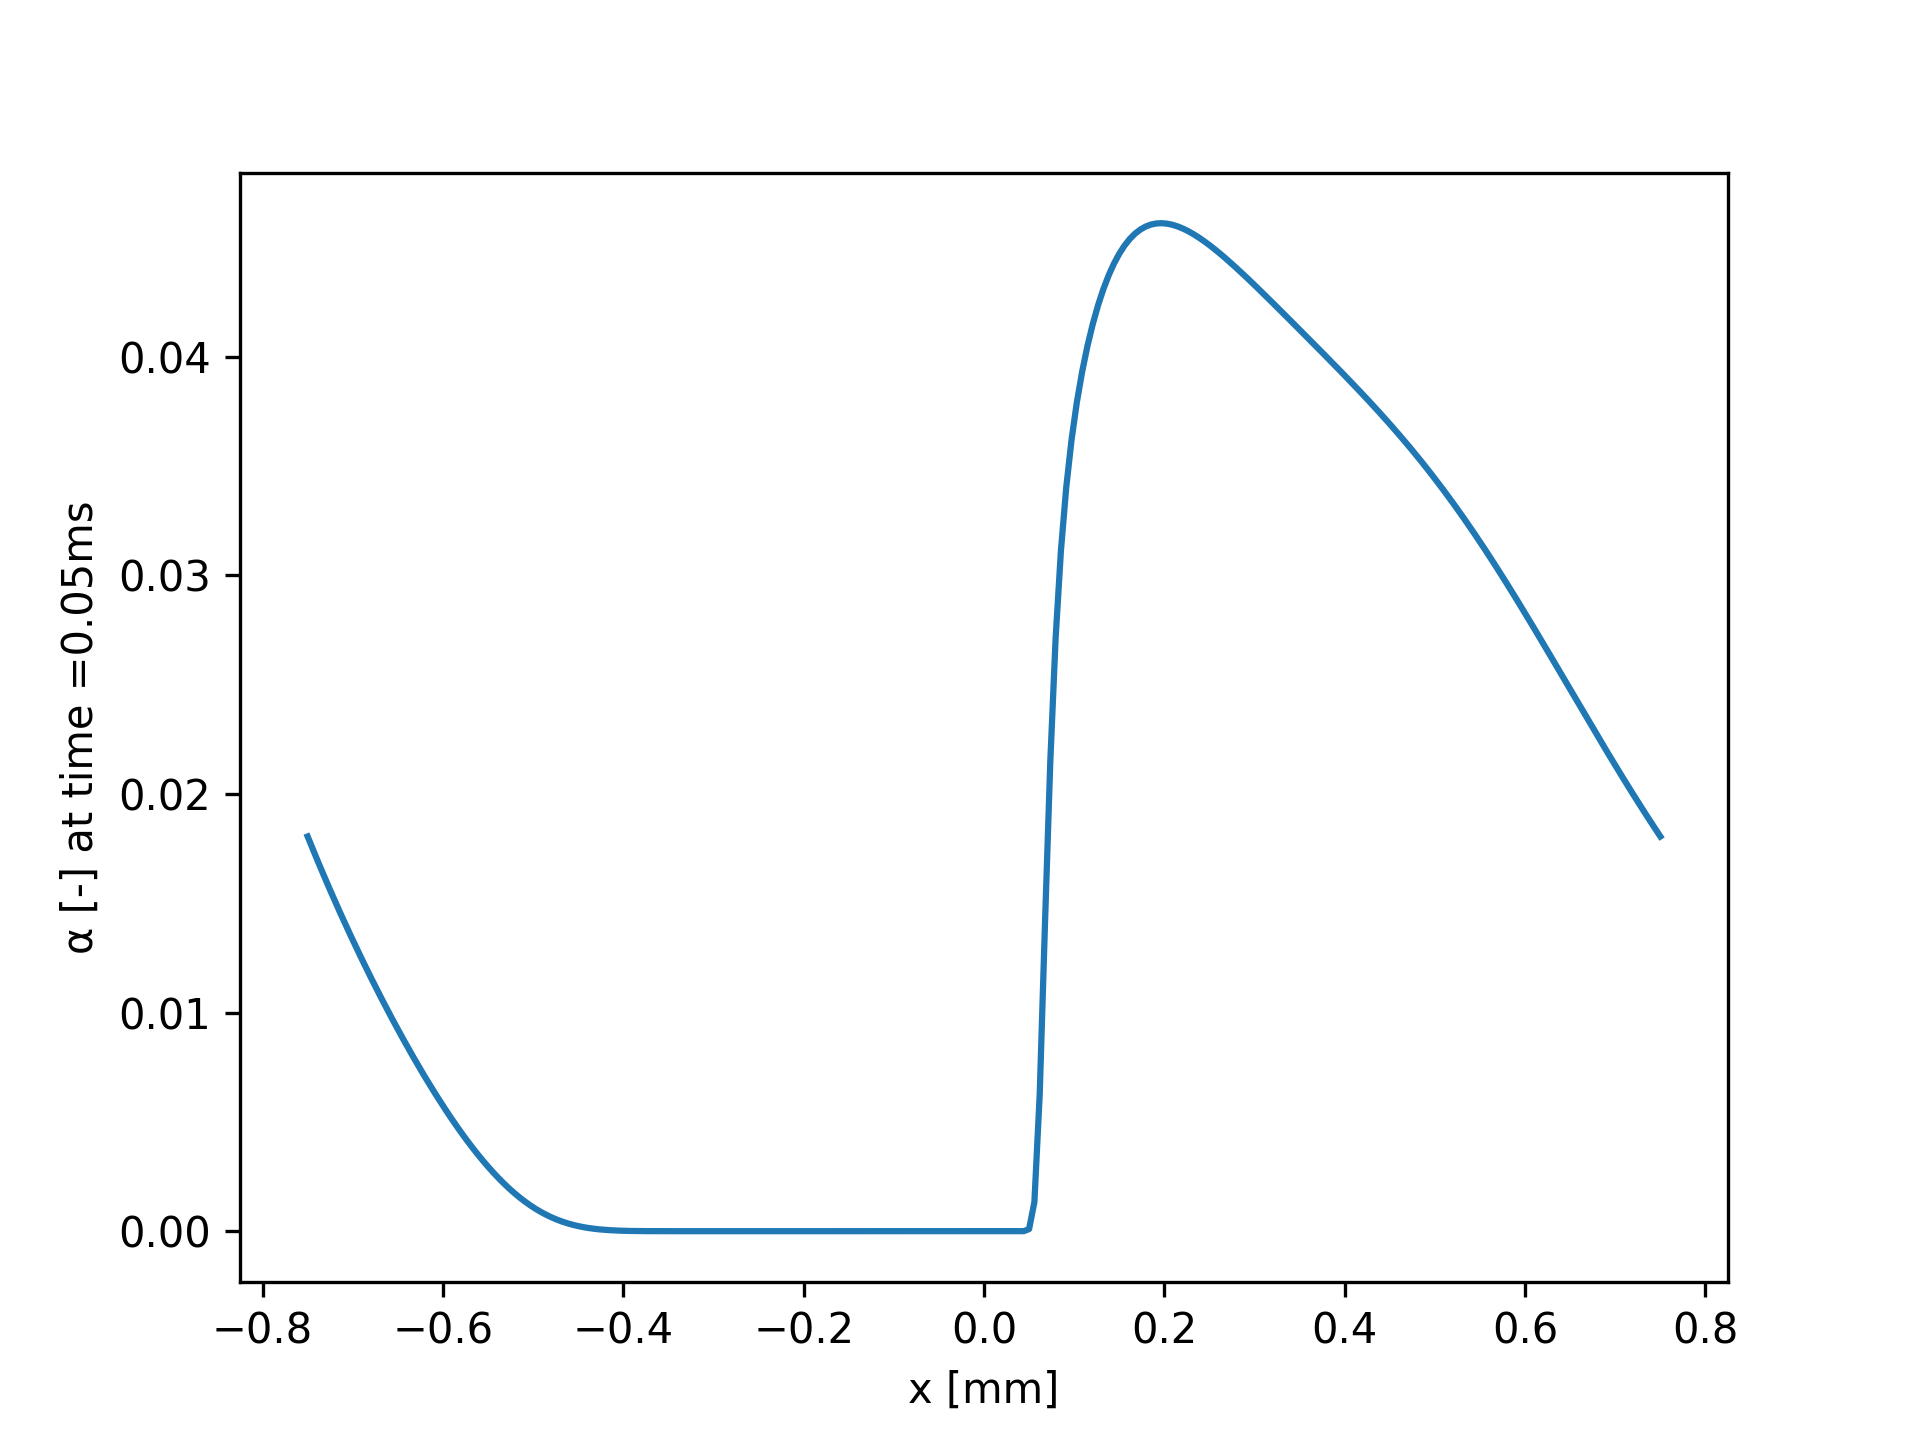
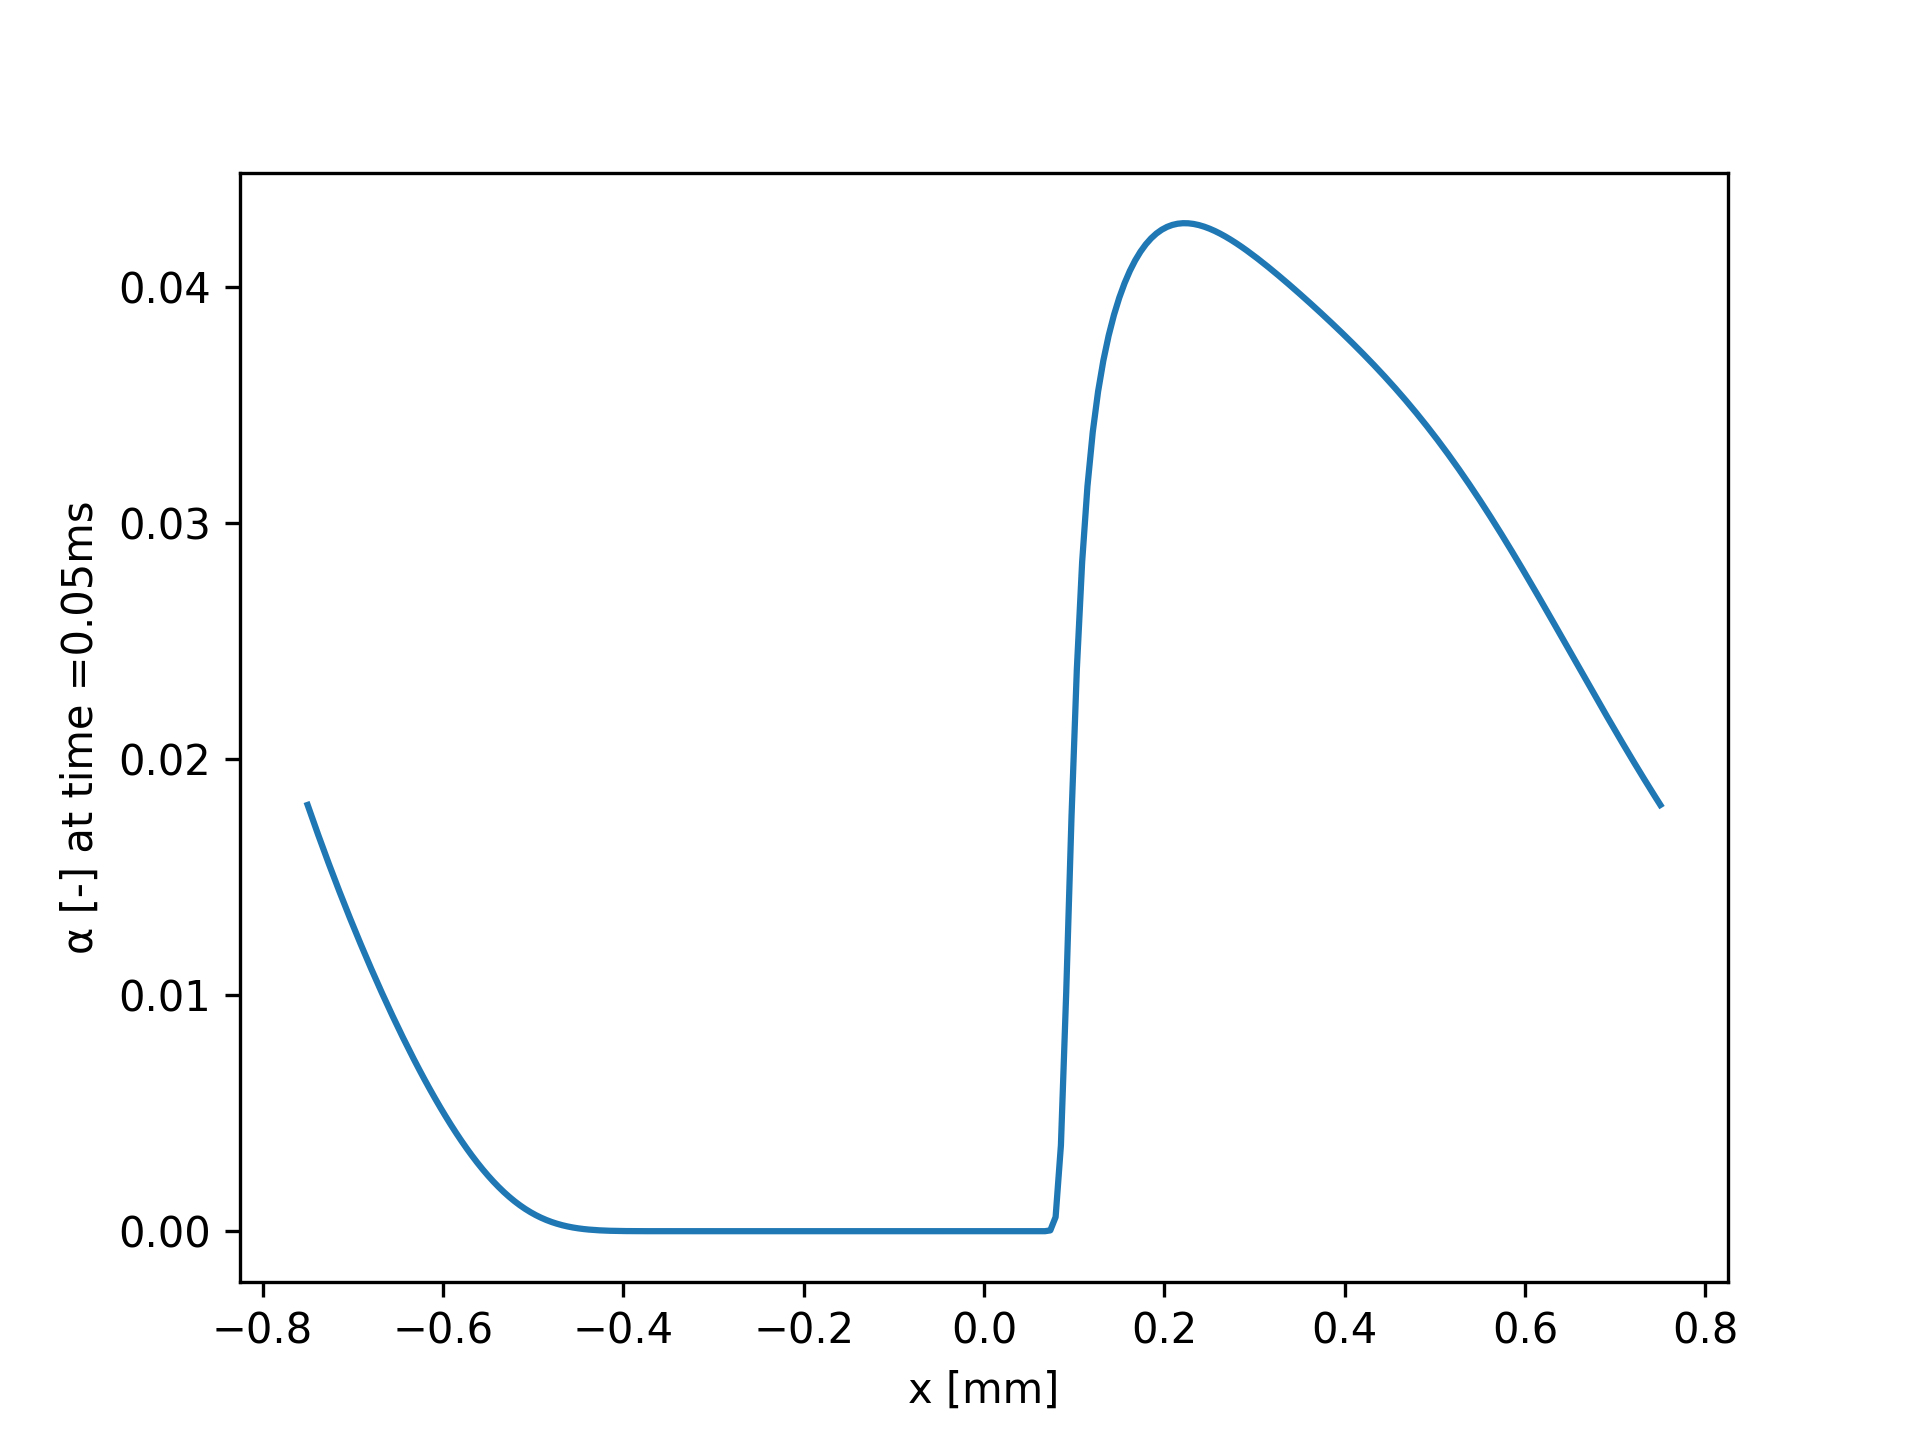
new figures normal ring

diff --git a/PostProcessing.py b/PostProcessing.py
@@ -81,8 +81,8 @@ Discretization=FiniteDifferences(Grid)
 
 """Read Data"""
 time=0
-for time in [1,2,3,4]:#range(1,Time.nt): # [100]:# 
-    FileName='Data_worn/Time_'+str(round(Time.t[time]*1000,4))+'ms.h5' 
+for time in range(1,Time.nt): # [100]:# 
+    FileName='Data_v3/Time_'+str(round(Time.t[time]*1000,4))+'ms.h5' 
 
     Data=IO.ReadData(FileName)
     StateVector[time].h0=float(Data['State']['h0']) # ok
@@ -205,14 +205,14 @@ plt.close()
 # plt.close()
 
 # ## Multi color Stribeck
-# for i in range(len(COF_values)):
-#     plt.plot(Hersey_values[i]*10**4,COF_values[i],'o',color=(.47,gradient[i],gradient[i]),markersize=3)
-# plt.xlabel('Hersey number x$ 10^4$ [-]')
-# plt.ylabel('Coefficient of Friction [-]')
-# # plt.xscale('log')
-# plt.savefig('PostProcessing/Stribeck_curve.png',dpi=300)
-# plt.show()
-# plt.close()
+for i in range(len(COF_values)):
+    plt.plot(Hersey_values[i]*10**4,COF_values[i],'o',color=(.47,gradient[i],gradient[i]),markersize=3)
+plt.xlabel('Hersey number x$ 10^4$ [-]')
+plt.ylabel('Coefficient of Friction [-]')
+# plt.xscale('log')
+plt.savefig('PostProcessing/Stribeck_curve.png',dpi=300)
+plt.show()
+plt.close()
 
 
 
@@ -227,43 +227,43 @@ plt.close()
 
 # ## Characteristic pressure & temperature fields at interesting and relevant locations
 
-# for time in interesting_timestamps:
+for time in interesting_timestamps:
     
-#     vis.Report_PT(Grid, StateVector[time], time=time) # plt.show() has to be uncommented in VisualLib --> kan ook gwn hier
-#     figname="PostProcessing/PT@Time_"+"{0:.2f}".format(round(Time.t[time]*1000,5))+"ms.png" 
-#     plt.savefig(figname,dpi=300)
-#     plt.show()
-#     plt.close()
+    vis.Report_PT(Grid, StateVector[time], time=time) # plt.show() has to be uncommented in VisualLib --> kan ook gwn hier
+    figname="PostProcessing/PT@Time_"+"{0:.2f}".format(round(Time.t[time]*1000,5))+"ms.png" 
+    plt.savefig(figname,dpi=300)
+    plt.show()
+    plt.close()
 
 
 # ### Vapour volume fraction, viscosity, Density at relavant locations
 # # interesting_timestamps = [100]
-# for time in interesting_timestamps:
-#     plt.plot(Grid.x*1000,StateVector[time].VapourVolumeFraction)
-#     plt.ylabel(chr(945) + ' [-]'+' at time =' + str(time*5/100) + 'ms')
-#     plt.xlabel('x [mm]')
-#     figname="PostProcessing/alpha@Time_"+"{0:.2f}".format(round(Time.t[time]*1000,5))+"ms.png" 
-#     plt.savefig(figname,dpi=300)
-#     # plt.show()
-#     plt.close()
+for time in interesting_timestamps:
+    plt.plot(Grid.x*1000,StateVector[time].VapourVolumeFraction)
+    plt.ylabel(chr(945) + ' [-]'+' at time =' + str(time*5/100) + 'ms')
+    plt.xlabel('x [mm]')
+    figname="PostProcessing/alpha@Time_"+"{0:.2f}".format(round(Time.t[time]*1000,5))+"ms.png" 
+    plt.savefig(figname,dpi=300)
+    # plt.show()
+    plt.close()
 
 
-#     plt.plot(Grid.x*1000,StateVector[time].Density)
-#     plt.ylabel('Density [kg/m³]'+' at time =' + str(time*5/100) + 'ms')
-#     plt.xlabel('x [mm]')
-#     figname="PostProcessing/rho@Time_"+"{0:.2f}".format(round(Time.t[time]*1000,5))+"ms.png" 
-#     plt.savefig(figname,dpi=300)
-#     # plt.show()
-#     plt.close()
+    plt.plot(Grid.x*1000,StateVector[time].Density)
+    plt.ylabel('Density [kg/m³]'+' at time =' + str(time*5/100) + 'ms')
+    plt.xlabel('x [mm]')
+    figname="PostProcessing/rho@Time_"+"{0:.2f}".format(round(Time.t[time]*1000,5))+"ms.png" 
+    plt.savefig(figname,dpi=300)
+    # plt.show()
+    plt.close()
 
 
-#     plt.plot(Grid.x*1000,StateVector[time].Viscosity)
-#     plt.ylabel('Viscosity [Pa s]'+' at time =' + str(time*5/100) + 'ms')
-#     plt.xlabel('x [mm]')
-#     figname="PostProcessing/µ@Time_"+"{0:.2f}".format(round(Time.t[time]*1000,5))+"ms.png" 
-#     plt.savefig(figname,dpi=300)
-#     # plt.show()
-#     plt.close()
+    plt.plot(Grid.x*1000,StateVector[time].Viscosity)
+    plt.ylabel('Viscosity [Pa s]'+' at time =' + str(time*5/100) + 'ms')
+    plt.xlabel('x [mm]')
+    figname="PostProcessing/µ@Time_"+"{0:.2f}".format(round(Time.t[time]*1000,5))+"ms.png" 
+    plt.savefig(figname,dpi=300)
+    # plt.show()
+    plt.close()
 
     
 
@@ -277,74 +277,74 @@ plt.close()
 # interesting_timestamps = np.array([1, 500, 999]) #250, 
 
 # interesting_timestamps = [100]
-# for time in interesting_timestamps:
-#     visc_x = StateVector[time].Viscosity
-#     density = Mixture.Density(StateVector[time])
-#     p = StateVector[time].Pressure
-#     p_x = Discretization.DDXCentral @ p
-#     DDX = Discretization.DDXCentral
-#     p_y = 0.0
-#     x_grid = Grid.x
-#     z_n = Grid.Nx
-#     h = StateVector[time].h
+for time in interesting_timestamps:
+    visc_x = StateVector[time].Viscosity
+    density = Mixture.Density(StateVector[time])
+    p = StateVector[time].Pressure
+    p_x = Discretization.DDXCentral @ p
+    DDX = Discretization.DDXCentral
+    p_y = 0.0
+    x_grid = Grid.x
+    z_n = Grid.Nx
+    h = StateVector[time].h
     
-#     u1 = 0
-#     u2 = Ops.SlidingVelocity[time] # or PistonVelocity ? idk
-#     Nx = Grid.Nx
-#     u_x = np.zeros((z_n, Nx))
-#     u_z = np.zeros((z_n, Nx))
+    u1 = 0
+    u2 = Ops.SlidingVelocity[time] # or PistonVelocity ? idk
+    Nx = Grid.Nx
+    u_x = np.zeros((z_n, Nx))
+    u_z = np.zeros((z_n, Nx))
 
-#     z_grid = np.linspace(0.0, h[0], z_n)
-#     for x in range(Grid.Nx):
-#         u_x[:, x] = np.array([1/visc_x[x] * p_x[x] * 1/2 * (z**2 - h[x] * z) if z < h[x] else 0 for z in z_grid])  # Poiseuille
-#         u_x[:, x] += np.array([(u2 - u1) / h[x] * z + u1 if z < h[x] else 0 for z in z_grid])                      # Couette
-#         # Note: list comprehension is used to get zero for points "inside" of the ring in the vector plot
-#         # print(u_x[:,x])
-#         # print(np.array([1/visc_x[x] * p_x[x] * 1/2 * (z**2 - h[x] * z) if z < h[x] else 0 for z in z_grid]))
-#         # u_z[:, x] = np.trapz(1/density[x] * DDX @ (density[x] * u_x[:, x]),z_grid)*10000
+    z_grid = np.linspace(0.0, h[0], z_n)
+    for x in range(Grid.Nx):
+        u_x[:, x] = np.array([1/visc_x[x] * p_x[x] * 1/2 * (z**2 - h[x] * z) if z < h[x] else 0 for z in z_grid])  # Poiseuille
+        u_x[:, x] += np.array([(u2 - u1) / h[x] * z + u1 if z < h[x] else 0 for z in z_grid])                      # Couette
+        # Note: list comprehension is used to get zero for points "inside" of the ring in the vector plot
+        # print(u_x[:,x])
+        # print(np.array([1/visc_x[x] * p_x[x] * 1/2 * (z**2 - h[x] * z) if z < h[x] else 0 for z in z_grid]))
+        # u_z[:, x] = np.trapz(1/density[x] * DDX @ (density[x] * u_x[:, x]),z_grid)*10000
     
-#     # np.average(u_x)
-#     ## Reduce amount of datapoint used to generate vectors. Note: plt.quiver wants the same amount of elements in X and Y!
-#     skip = 10
-#     scale = 1
-#     if time in np.array([1, 500, 999]):
-#         skip = 12
-#         scale = 40
-#     skip1 = (slice(None, None, skip))
-#     skip2 = (slice(None, None, skip), slice(None, None, skip))
+    # np.average(u_x)
+    ## Reduce amount of datapoint used to generate vectors. Note: plt.quiver wants the same amount of elements in X and Y!
+    skip = 10
+    scale = 1
+    if time in np.array([1, 500, 999]):
+        skip = 12
+        scale = 40
+    skip1 = (slice(None, None, skip))
+    skip2 = (slice(None, None, skip), slice(None, None, skip))
 
-#     ## Make grid for vectors
-#     X, Z = np.meshgrid(x_grid[skip1], z_grid[skip1])
+    ## Make grid for vectors
+    X, Z = np.meshgrid(x_grid[skip1], z_grid[skip1])
 
-#     X_l, Z_l = np.meshgrid((x_grid[:Nx//2])[skip1], (z_grid)[skip1])
-#     X_r, Z_r = np.meshgrid((x_grid[Nx//2+1:])[skip1], (z_grid)[skip1])
+    X_l, Z_l = np.meshgrid((x_grid[:Nx//2])[skip1], (z_grid)[skip1])
+    X_r, Z_r = np.meshgrid((x_grid[Nx//2+1:])[skip1], (z_grid)[skip1])
 
 
-#     ## Make vector plot
-#     pts = [[-0.75,0.02]]
-#     for i in range(len(x_grid)):
-#         pts.append([x_grid[i]*1000,StateVector[time].h[i]*1000])
-#     pts.append([0.75,0.02])
-#     p = Polygon(pts,closed=False,ec='black',fc='grey',zorder=.1)
-#     plt.gca().add_patch(p)
+    ## Make vector plot
+    pts = [[-0.75,0.02]]
+    for i in range(len(x_grid)):
+        pts.append([x_grid[i]*1000,StateVector[time].h[i]*1000])
+    pts.append([0.75,0.02])
+    p = Polygon(pts,closed=False,ec='black',fc='grey',zorder=.1)
+    plt.gca().add_patch(p)
 
-#     plt.quiver(X*1000,Z*1000,u_x[skip2]*scale,u_z[skip2],pivot='tail',minlength=0,scale=350) #scale=350 for v!=0
+    plt.quiver(X*1000,Z*1000,u_x[skip2]*scale,u_z[skip2],pivot='tail',minlength=0,scale=350) #scale=350 for v!=0
 
-#     ### (Un)comment following two line to ensure that no vector crosses the ring.
-#     # plt.quiver(X_l,Z_l,(u_x[:,:Nx//2])[skip2],(u_z[:,:Nx//2])[skip2],minlength=0,pivot='tip',scale=350)
-#     # plt.quiver(X_r,Z_r,(u_x[:,Nx//2+1:])[skip2],(u_z[:,Nx//2+1:])[skip2],minlength=0,pivot='tail',scale=350)
+    ### (Un)comment following two line to ensure that no vector crosses the ring.
+    # plt.quiver(X_l,Z_l,(u_x[:,:Nx//2])[skip2],(u_z[:,:Nx//2])[skip2],minlength=0,pivot='tip',scale=350)
+    # plt.quiver(X_r,Z_r,(u_x[:,Nx//2+1:])[skip2],(u_z[:,Nx//2+1:])[skip2],minlength=0,pivot='tail',scale=350)
 
-#     # plt.plot(x_grid*1000, StateVector[time].h*1000)
-#     figname="PostProcessing/Vectorplot@Time_"+"{0:.2f}".format(round(Time.t[time]*1000,5))+"ms.png" 
-#     plt.xlabel('x [mm]')
-#     plt.ylabel('z [mm]')
-#     plt.title('Vectorplot for t =' + str(time*5/100) + 'ms')
-#     plt.xlim([-.8,.8])
-#     plt.ylim([0.0, 0.0175])
-#     plt.tight_layout()
-#     # plt.savefig(figname,dpi=300)
-#     # plt.show()
-#     plt.close()
+    # plt.plot(x_grid*1000, StateVector[time].h*1000)
+    figname="PostProcessing/Vectorplot@Time_"+"{0:.2f}".format(round(Time.t[time]*1000,5))+"ms.png" 
+    plt.xlabel('x [mm]')
+    plt.ylabel('z [mm]')
+    plt.title('Vectorplot for t =' + str(time*5/100) + 'ms')
+    plt.xlim([-.8,.8])
+    plt.ylim([0.0, 0.0175])
+    plt.tight_layout()
+    # plt.savefig(figname,dpi=300)
+    # plt.show()
+    plt.close()
 
             
 
@@ -384,12 +384,12 @@ print('Maximim wear depth on cylinder sleeve = ' + str(max(StateVector[time].Wea
 
 # # lifetime compression ring
 
-# WearDepth_one_comb_cycle = StateVector[999].WearDepthRing # constant wear rate assumed
-# reduction = 0.2 * Engine.CompressionRing.CrownHeight
-# nr_comb_cycles = reduction / WearDepth_one_comb_cycle
-# rot = nr_comb_cycles * 2 #  1 combustion cycle = 2 rotations of crackshaft
-# km = rot / 1200 # 120 km/h @ 2400 rpm --> 1 km/30s --> 1km = 1200 rot
-# print('aantal km= ', km)
+WearDepth_one_comb_cycle = StateVector[999].WearDepthRing # constant wear rate assumed
+reduction = 0.2 * Engine.CompressionRing.CrownHeight
+nr_comb_cycles = reduction / WearDepth_one_comb_cycle
+rot = nr_comb_cycles * 2 #  1 combustion cycle = 2 rotations of crackshaft
+km = rot / 1200 # 120 km/h @ 2400 rpm --> 1 km/30s --> 1km = 1200 rot
+print('aantal km= ', km)
 
 # lifetime cylinder liner
 

diff --git a/PostProcessing_worn.py b/PostProcessing_worn.py
@@ -84,7 +84,7 @@ time=0
 Lambda_new = []
 for time in range(1,Time.nt): # [100]:# 
     FileName='Data_worn_v5/Time_'+str(round(Time.t[time]*1000,4))+'ms.h5' 
-    FileName2 = 'Data_v2/Time_'+str(round(Time.t[time]*1000,4))+'ms.h5' 
+    FileName2 = 'Data_v3/Time_'+str(round(Time.t[time]*1000,4))+'ms.h5' 
 
     Data=IO.ReadData(FileName)
     
